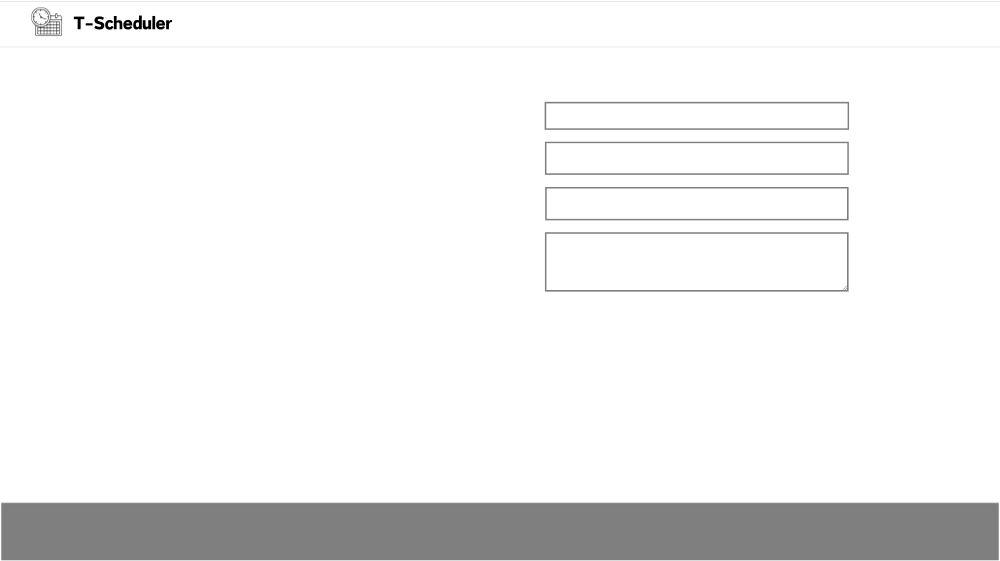
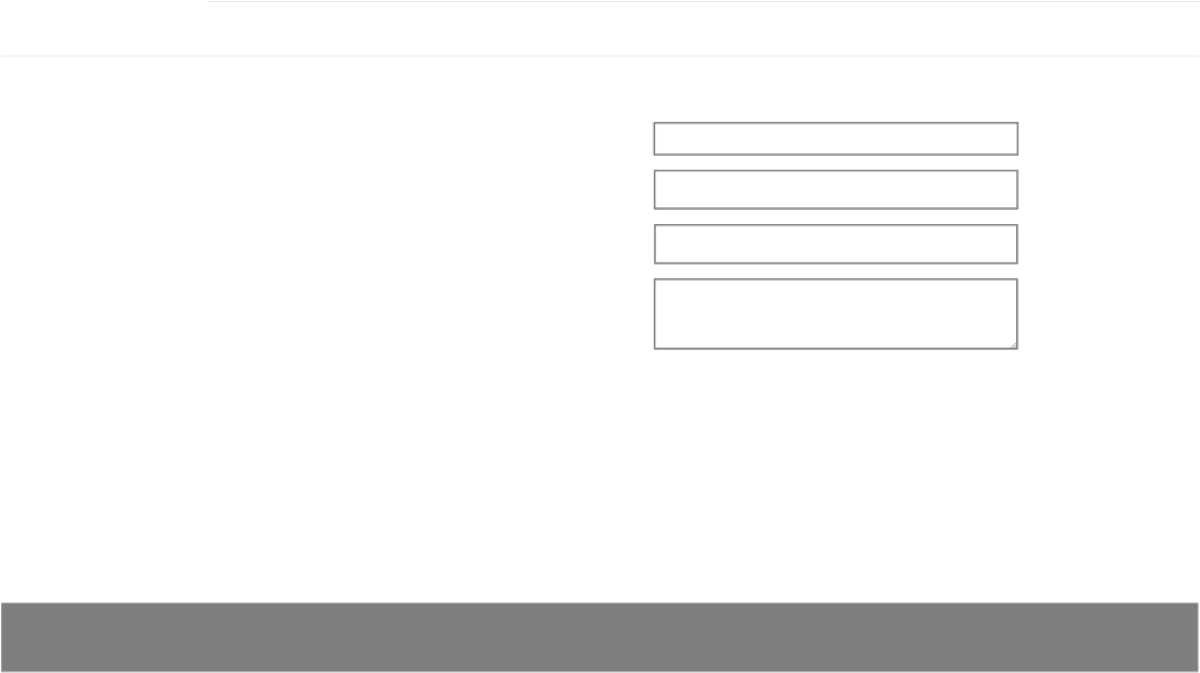
Added Upcoming tasks plus did bug fixing!

diff --git a/mainwindow.py b/mainwindow.py
@@ -6,16 +6,39 @@ import tkinter as tk
 from tkcalendar import DateEntry
 import sqlite3
 from datetime import datetime
+from datetime import time
 from PIL import Image, ImageTk, ImageFilter  # Import ImageFilter module
 from tkinter import messagebox
 
 ###################################### SQL Database COnnection ##############################
 
+
+# Function to create the 'tasks' table if it doesn't exist
+def create_tasks_table():
+    connection = sqlite3.connect("tasks.db")
+    cursor = connection.cursor()
+
+    cursor.execute('''
+        CREATE TABLE IF NOT EXISTS tasks (
+            id INTEGER PRIMARY KEY AUTOINCREMENT,
+            task_name TEXT,
+            description TEXT,
+            datetime TEXT
+        )
+    ''')
+
+    connection.commit()
+    connection.close()
+
+# Function to save the task with date and time
 def save_task():
+    create_tasks_table()  # Create the table if it doesn't exist
+
     # Retrieve values from the input fields
     task_name_value = task_name.get()
     description_value = discription.get()
     date_value = cal.get_date()
+    time_value = time_entry.get()  # Get the time input
 
     # Check if the task name is still the default value
     if task_name_value == "Task Name":
@@ -23,23 +46,26 @@ def save_task():
         messagebox.showerror("Error", "Please enter a valid task name.")
         return  # Stop further execution if there's an error
 
-    # Connect to the SQLite database (or create it if it doesn't exist)
+    # Convert time_value to datetime.time
+    try:
+        time_parts = time_value.split(':')
+        hour = int(time_parts[0])
+        minute = int(time_parts[1])
+        time_object = time(hour, minute)
+    except ValueError:
+        messagebox.showerror("Error", "Invalid time format. Please use HH:MM.")
+        return
+
+    # Combine date and time into a single datetime object
+    datetime_value = datetime.combine(date_value, time_object)
+
+    # Connect to the SQLite database
     connection = sqlite3.connect("tasks.db")
     cursor = connection.cursor()
 
-    # Create a table if it doesn't exist
-    cursor.execute('''
-        CREATE TABLE IF NOT EXISTS tasks (
-            id INTEGER PRIMARY KEY AUTOINCREMENT,
-            task_name TEXT,
-            description TEXT,
-            date TEXT
-        )
-    ''')
-
     # Insert the task details into the database
-    cursor.execute("INSERT INTO tasks (task_name, description, date) VALUES (?, ?, ?)",
-                   (task_name_value, description_value, date_value))
+    cursor.execute("INSERT INTO tasks (task_name, description, datetime) VALUES (?, ?, ?)",
+                   (task_name_value, description_value, str(datetime_value)))
 
     # Commit the changes and close the connection
     connection.commit()
@@ -47,67 +73,79 @@ def save_task():
 
     # Reset the input fields
     reset_fields()
-################################ Reset Function ##############################
 
-    reset_fields()
+################################ Reset Function ##############################
 
 def reset_fields():
     # Reset task name
     task_name.set("Task Name")
 
     # Reset description
-    discription.set("Task Discription .....")
+    discription.set("Task Description .....")
 
-    # Reset date
+    # Reset date to the current date
     cal.set_date(datetime.now())
+
+    # Reset time to the default text
+    cal._set_time("Task Time (HH:MM)")
+
 
 #################################################################################
 
 ################################# Side Calendar #################################
 def show_tasks_for_date():
-    # Connect to the SQLite database
-    connection = sqlite3.connect("tasks.db")
-    cursor = connection.cursor()
+    try:
+        # Connect to the SQLite database
+        connection = sqlite3.connect("tasks.db")
+        cursor = connection.cursor()
 
-    # Retrieve selected date from the DateEntry widget
-    selected_date = cal_selected_date.get_date()
+        # Retrieve selected date from the DateEntry widget
+        selected_date = cal_selected_date.get_date()
 
-    # Retrieve tasks for the selected date
-    selected_date_tasks = cursor.execute("SELECT * FROM tasks WHERE date = ?", (selected_date,)).fetchall()
+        # Retrieve tasks for the selected date
+        selected_date_tasks = cursor.execute("SELECT * FROM tasks WHERE datetime LIKE ?", (f"{selected_date}%",)).fetchall()
 
-    # Close the connection
-    connection.close()
+        # Close the connection
+        connection.close()
 
-    # Clear existing items in the listbox
-    tasks_for_date_listbox.delete(0, tk.END)
+        # Clear existing items in the listbox
+        tasks_for_date_listbox.delete(0, tk.END)
 
-    # Insert data into the listbox
-    for task in selected_date_tasks:
-        tasks_for_date_listbox.insert(tk.END, f"{task[1]} - {task[2]} ({task[3]})")
+        # Insert data into the listbox
+        for task in selected_date_tasks:
+            # Convert the datetime string to a more readable format
+            formatted_datetime = datetime.strptime(task[3], "%Y-%m-%d %H:%M:%S").strftime("%Y-%m-%d %H:%M")
+            tasks_for_date_listbox.insert(tk.END, f"{task[1]} - {task[2]} ({formatted_datetime})")
+
+    except sqlite3.Error as e:
+        # Display an error message if there's an issue with the SQL query or database connection
+        messagebox.showerror("Error", f"Error accessing the database: {str(e)}")
+
+
 
 ########################################################################################
 
-# Get the screen size
-user32 = ctypes.windll.user32
-screen_width, screen_height = user32.GetSystemMetrics(0), user32.GetSystemMetrics(1)
+# Get the screen size   (Disabled Feature , can be used to exapnd the window size to maximum ..)
+'''user32 = ctypes.windll.user32
+screen_width, screen_height = user32.GetSystemMetrics(0), user32.GetSystemMetrics(1)'''
 
 # Create the tkinter window
 root = tk.Tk()
 root.resizable(FALSE,FALSE)
 root.title("Background Image Example")
+root.geometry('1300x729+70+12')
 
 # Load the background image
-background_image_path = "Tsheduler_bg.png"
+background_image_path = "C:\\Users\\Saransh Jain\\OneDrive\\Desktop\\Tsheduler (2).png"
 background_image = Image.open(background_image_path)
 
-# Scale the image to fit within the window size using the "BILINEAR" filter
-
-image_width, image_height = background_image.size
+# Scale the image to fit within the window size using the "BILINEAR" filter (Disabled Feature)
+'''image_width, image_height = background_image.size
 scaling_factor = min(screen_width / image_width, screen_height / image_height)
 image_width, image_height = int(image_width * scaling_factor), int(image_height * scaling_factor)
 background_image = background_image.resize((image_width, image_height), Image.BILINEAR)
 # Set the window size to match the screen size
-root.geometry(f"{image_width}x{image_height}")
+root.geometry(f"{image_width}x{image_height}")'''
 
 # Create a label to display the background image
 background_image = ImageTk.PhotoImage(background_image)
@@ -127,7 +165,7 @@ task_entry = ttk.Entry(root,textvariable = task_name , font=('Helvetica',16,'nor
 task_entry.insert(0, "Task Name")
 
 #placing the input box
-task_entry.place(x=932,y=168,height=44,width=515 )
+task_entry.place(x=710,y=134,height=34,width=391 )
 task_entry.bind("<FocusIn>", temp_text)
 
 ########################################## Add Discription ##########################################################
@@ -143,13 +181,13 @@ discription_entry = ttk.Entry(root,textvariable = discription , font=('Helvetica
 discription_entry.insert(0, "Task Discription .....")
 
 #placing the input box
-discription_entry.place(x=932,y=391,height=96,width=514 )
+discription_entry.place(x=710,y=303,height=75,width=391 )
 discription_entry.bind("<FocusIn>", temp_text)
 
 ################################# Add date ###########################################################################
 
 cal = DateEntry(root, width=12, background='white', foreground='#808080', borderwidth=2, font=("Helvetica", 16),justify='center', date_pattern="dd/MM/yyyy")
-cal.place(x=1030, y=235, height=54, width=418)
+cal.place(x=790, y=185, height=41, width=312)
 
 # Function to retrieve the selected date
 def get_selected_date():
@@ -158,11 +196,11 @@ def get_selected_date():
 ################################### Create a label Date ############################################################
 
 label = ttk.Label(root, text='Date', font=('Helvetica', 16), foreground='grey', background='white', relief='solid', borderwidth=2)
-label.place(x=932, y=236, height=52, width=97)
+label.place(x=710, y=186, height=37, width=80)
 
 # Create a frame to act as the background for the label
 frame = tk.Frame(root, background='white')
-frame.place(x=932, y=236, height=52, width=97)
+frame.place(x=710, y=186, height=37, width=80)
 
 # Center the text within the frame
 label_text = tk.Label(frame, text='Date', font=('Helvetica', 16), foreground='grey', background='white')
@@ -235,41 +273,74 @@ image = image.resize((150, 44))
 photo = ImageTk.PhotoImage(image)
 
 # Create the "Save Task" button with an image
-save_button = Button(root, image=photo, command=save_task,borderwidth=0, activebackground="#ed1c24")
-save_button.image = photo  # Keep a reference to prevent garbage collection
-save_button.place(x=930, y=500, height=35, width=145)
+save_button = Button(root,text="Schedule", command=save_task,borderwidth=0, activebackground="#ed1c24",bg="#ed1c24",fg="white",font=("Helvetica",13,'bold'))
+#save_button.image = photo  # Keep a reference to prevent garbage collection
+save_button.place(x=700, y=425, height=35, width=120)
 
 
 ########################################################################################################
 
 # Create an "Edit Task" button
 edit_button = ttk.Button(root, text="Edit Task", command=edit_task)
-edit_button.place(x=1120, y=500, height=35, width=145)
+edit_button.place(x=850, y=425, height=35, width=120)
 
 # Create a "Remove Task" button
 remove_button = ttk.Button(root, text="Remove Task", command=remove_task)
-remove_button.place(x=1300, y=500, height=35, width=145)
+remove_button.place(x=1000, y=425, height=35, width=120)
 
 #######################################################################################################
 # Create a DateEntry widget for selecting a specific date to view tasks
 cal_selected_date = DateEntry(root, width=12, background='white', foreground='#8F8F8F', borderwidth=2,
                                font=("Helvetica", 12), justify='center', date_pattern="dd/MM/yyyy")
-cal_selected_date.place(x=85, y=515, height=44, width=150)
+cal_selected_date.place(x=85, y=355, height=35, width=150)
 
 ################### Show Tasks for Date Button #########################################################
 
 show_tasks_for_date_button = ttk.Button(root, text="Show Tasks for Date", command=show_tasks_for_date)
-show_tasks_for_date_button.place(x=335
-
-
-, y=515, height=46, width=150)
+show_tasks_for_date_button.place(x=335, y=355, height=35, width=150)
 
 ################ Create a Listbox to display tasks for a particular date ###############################
 
 tasks_for_date_listbox = tk.Listbox(root, font=('Helvetica', 12), selectbackground='#a6a6a6', selectforeground='black', height=10, width=50)
-tasks_for_date_listbox.place(x=50, y=300)
+tasks_for_date_listbox.place(x=50, y=134)
 
 #########################################################################################################
+# Add a time entry widget
+time_entry = ttk.Entry(root, font=('Helvetica', 16, 'normal'), style='pad.TEntry')
+time_entry.insert(0, "Task Time (HH:MM)")  # Default value
+time_entry.place(x=710, y=245, height=40, width=391)
+##################################### SHow all upcoming tasks #########################################
+def show_upcoming_tasks():
+    try:
+        # Connect to the SQLite database
+        connection = sqlite3.connect("tasks.db")
+        cursor = connection.cursor()
 
-# Run the tkinter main loop
+        # Retrieve upcoming tasks from the database (tasks with datetime greater than or equal to now)
+        current_datetime = datetime.now().strftime("%Y-%m-%d 00:00")  # Start of the current day
+
+        upcoming_tasks = cursor.execute("SELECT * FROM tasks WHERE datetime >= ?", (current_datetime,)).fetchall()
+
+        # Close the connection
+        connection.close()
+
+        # Clear existing items in the listbox
+        tasks_for_date_listbox.delete(0, tk.END)
+
+        # Insert data into the listbox
+        for task in upcoming_tasks:
+            # Convert the datetime string to a more readable format
+            formatted_datetime = datetime.strptime(task[3], "%Y-%m-%d %H:%M:%S").strftime("%Y-%m-%d %H:%M")
+            tasks_for_date_listbox.insert(tk.END, f"{task[1]} - {task[2]} ({formatted_datetime})")
+
+    except sqlite3.Error as e:
+        # Display an error message if there's an issue with the SQL query or database connection
+        messagebox.showerror("Error", f"Error accessing the database: {str(e)}")
+
+# Create a "Show Upcoming Tasks" button
+show_upcoming_button = ttk.Button(root, text="Show Upcoming Tasks", command=show_upcoming_tasks)
+show_upcoming_button.place(x=355, y=85, height=35, width=150)
+
+### Run the tkinter main loop
 root.mainloop()
+
